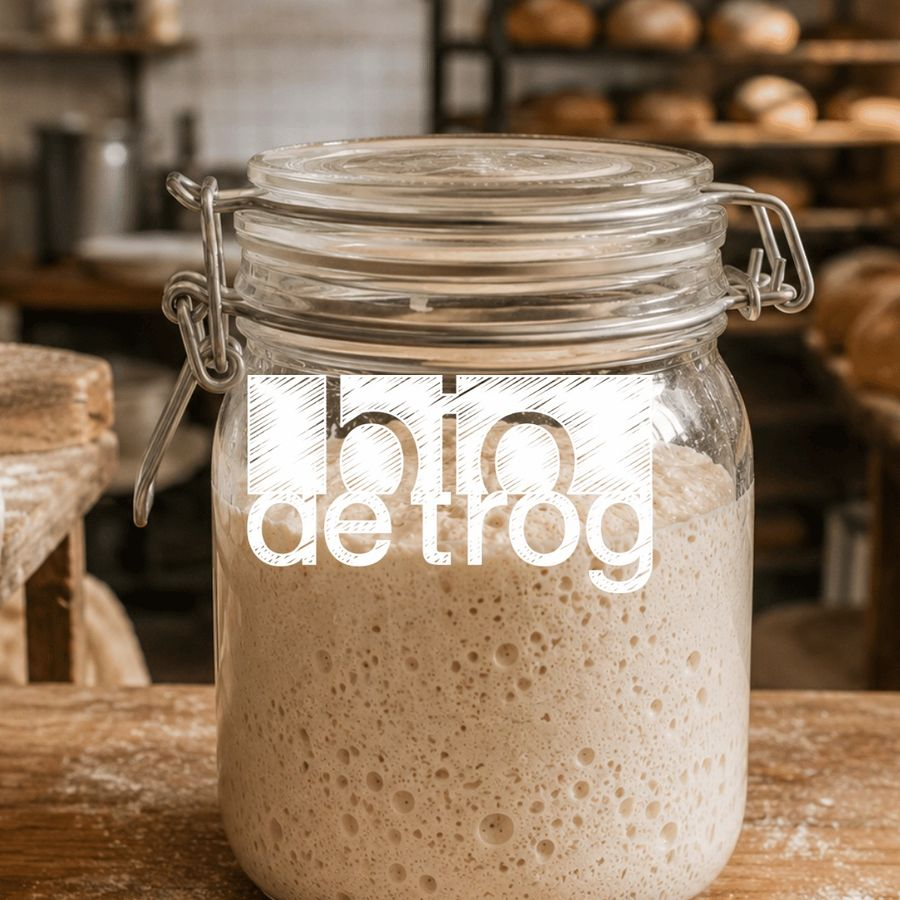
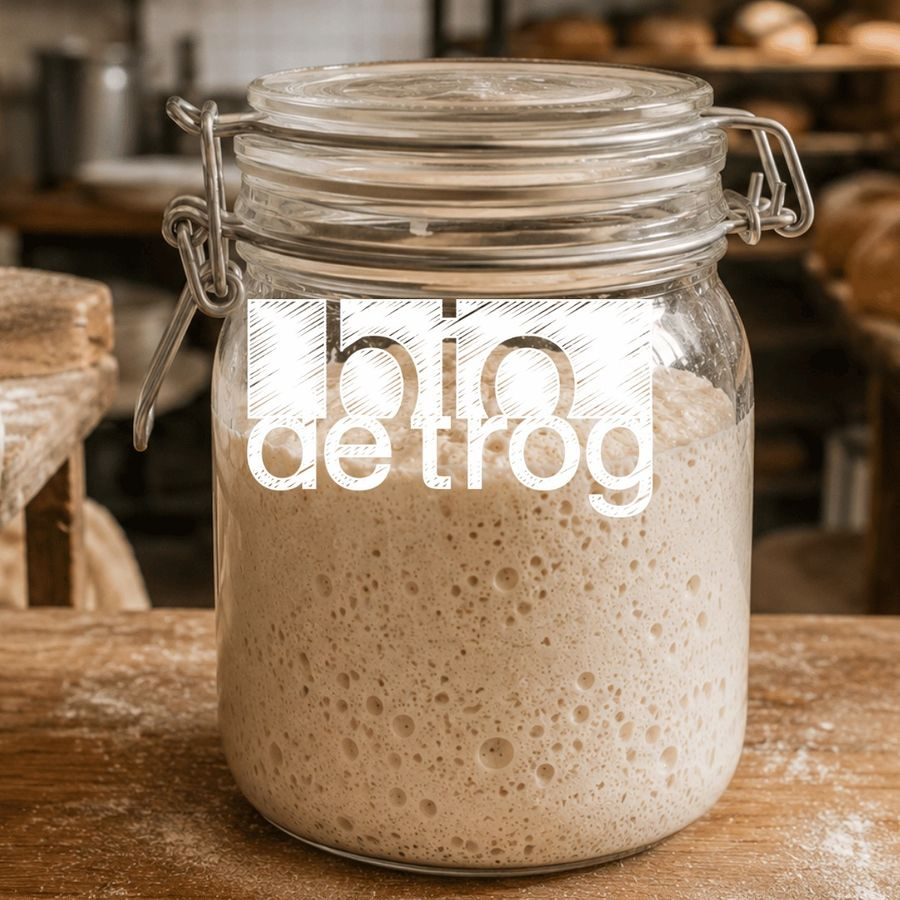
Foto-uitsneden aangepast (Hendrik en zuurdesem volledig zichtbaar)

diff --git a/index.html b/index.html
@@ -123,9 +123,10 @@
   .benefit>*{min-width:0}
   .shot{margin:0;position:relative;isolation:isolate}
   .shot::before{content:"";position:absolute;inset:14px -14px -14px 14px;border-radius:10px;background:var(--sand);opacity:.55;z-index:-1;transition:transform .6s ease}
-  .shot .ph{width:100%;aspect-ratio:4/3;object-fit:cover;object-position:50% 40%;border-radius:10px;transition:transform 1.2s ease;transform-origin:50% 60%}
+  .shot .ph{width:100%;aspect-ratio:1/1;object-fit:cover;object-position:50% 40%;border-radius:10px;transition:transform 1.2s ease;transform-origin:50% 60%}
   .shot{overflow:visible}
   .shot .frame{overflow:hidden}
+  .shot .pos-portret{object-position:50% 78%}
   .benefit h3{font-size:var(--fs-h3);position:relative;padding-top:18px;margin-bottom:12px}
   .benefit h3::before{content:"";position:absolute;top:0;left:0;width:44px;height:4px;border-radius:4px;background:var(--sand)}
   .benefit .body{max-width:56ch}
@@ -299,7 +300,7 @@
       </div>
 
       <div class="benefit reveal">
-        <figure class="shot"><img class="ph" src="foto-portret.jpg" width="900" height="1125" loading="lazy" alt="Een glimlachende man aan een stenen toonbank, met een glazen bokaal op de voorgrond"></figure>
+        <figure class="shot"><img class="ph pos-portret" src="foto-portret.jpg" width="900" height="1125" loading="lazy" alt="Een glimlachende man aan een stenen toonbank, met een glazen bokaal op de voorgrond"></figure>
         <div class="text">
           <h3>Brood met een verhaal</h3>
           <div class="body">
